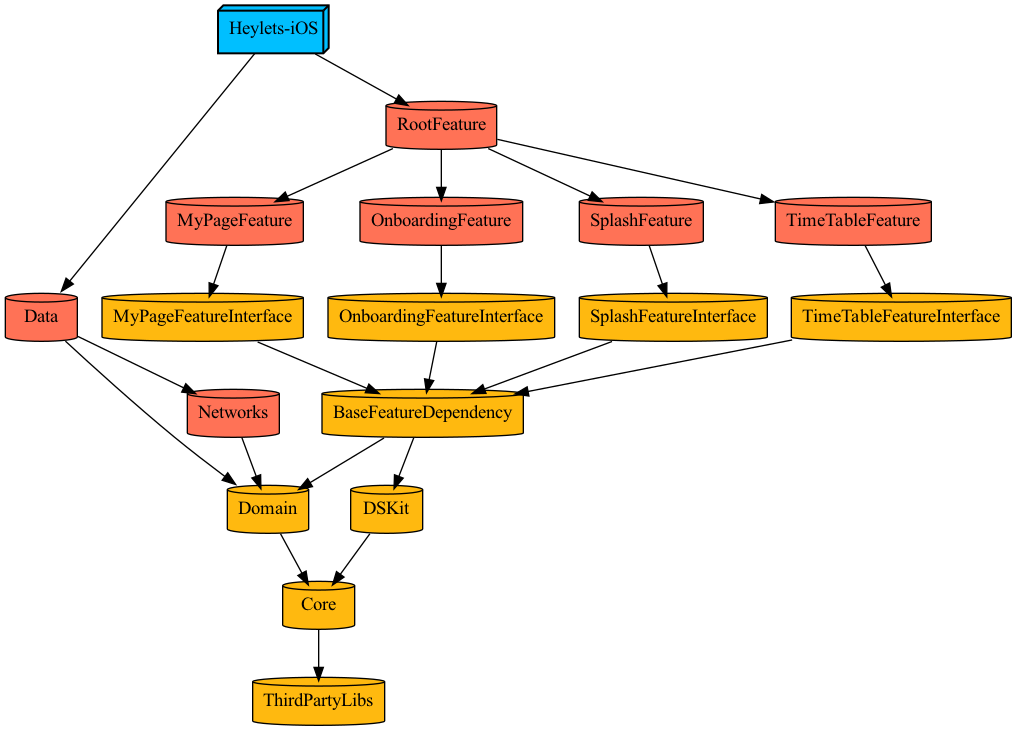
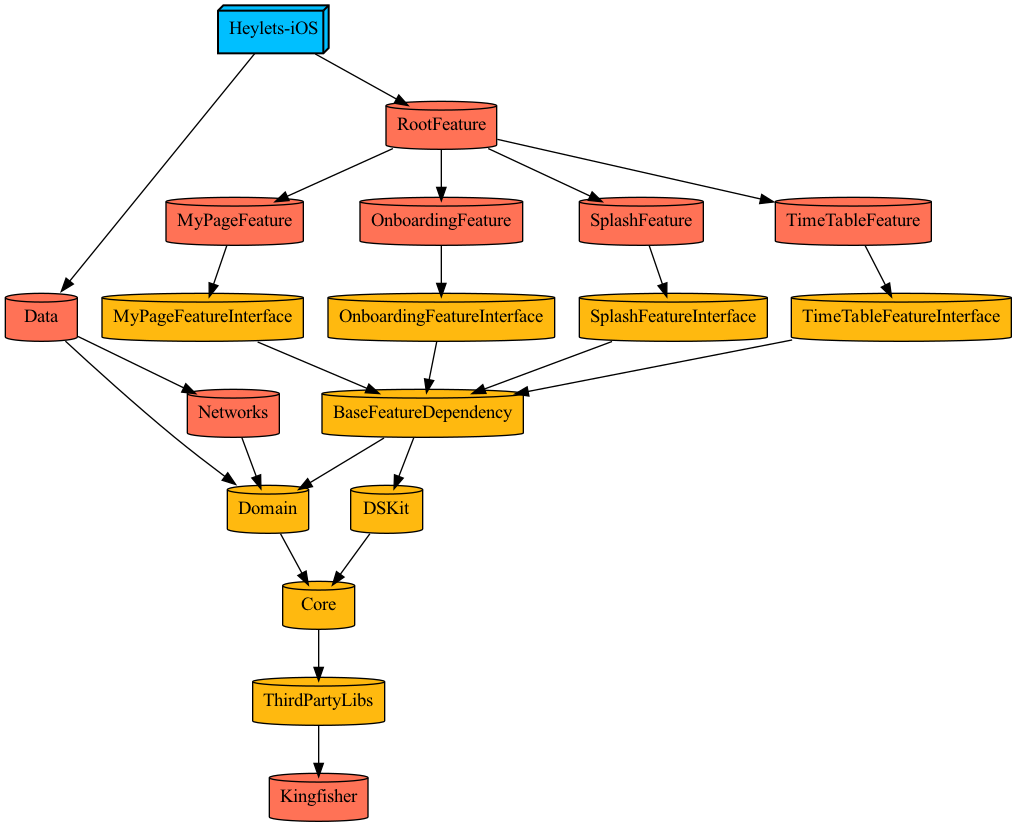
[Feat] kingfisher 추가 #42

diff --git a/Projects/Core/Sources/Extension/Kingfisher+.swift b/Projects/Core/Sources/Extension/Kingfisher+.swift
@@ -1,0 +1,25 @@
+//
+//  Kingfisher+.swift
+//  Core
+//
+//  Created by 류희재 on 1/17/25.
+//  Copyright © 2025 Heylets-iOS. All rights reserved.
+//
+
+//import SwiftUI
+//import Kingfisher
+//
+//extension Image{
+//    public func kfSetImage(url : String?, defaultImage: UIImage? = nil){
+//        guard let url = url else {
+//            self.image = defaultImage
+//            return
+//        }
+//        if let url = URL(string: url) {
+//            kf.indicatorType = .activity
+//            kf.setImage(with: url,
+//                        placeholder: nil,
+//                        options: [.transition(.fade(1.0))], progressBlock: nil)
+//        }
+//    }
+//}

diff --git a/Tuist/Dependencies.swift b/Tuist/Dependencies.swift
@@ -11,9 +11,7 @@ import ProjectDescriptionHelpers
 import ConfigPlugin
 
 let spm = SwiftPackageManagerDependencies([
-//    .remote(url: "https://github.com/airbnb/lottie-ios", requirement: .upToNextMajor(from: "4.4.1")),
-//    .remote(url: "https://github.com/kakao/kakao-ios-sdk.git", requirement: .upToNextMajor(from: "2.0.0")),
-//    .remote(url: "https://github.com/kishikawakatsumi/KeychainAccess", requirement: .upToNextMajor(from: "4.2.2"))
+    .remote(url: "https://github.com/onevcat/Kingfisher.git", requirement: .upToNextMajor(from: "8.1.3"))
     
 ], baseSettings: Settings.settings(
     configurations: XCConfig.configurations

diff --git a/Projects/Features/MyPageFeature/Sources/View/MyPageView.swift b/Projects/Features/MyPageFeature/Sources/View/MyPageView.swift
@@ -10,6 +10,7 @@ import SwiftUI
 
 import DSKit
 import BaseFeatureDependency
+import Kingfisher
 
 public struct MyPageView: View {
     @EnvironmentObject var container: Router
@@ -67,7 +68,7 @@ public struct MyPageView: View {
                 }
                 
                 VStack {
-                    Image(uiImage: .icSchool)
+                    Image(uiImage: viewModel.state.profileInfo.image ?? UIImage().withTintColor(.black))
                         .resizable()
                         .frame(width: 80, height: 80)
                         .background(Color.heyWhite)

diff --git a/Projects/Features/OnboardingFeature/Sources/ViewModel/SignUp/AddProfileViewModel.swift b/Projects/Features/OnboardingFeature/Sources/ViewModel/SignUp/AddProfileViewModel.swift
@@ -46,7 +46,7 @@ public class AddProfileViewModel: ObservableObject {
         case .backButtonDidTap:
             navigationRouter.pop()
         case .nextButtonDidTap:
-            useCase.userInfo.profile.image = profileImage?.jpegData(compressionQuality: 1.0)
+            useCase.userInfo.profile.image = profileImage
             useCase.signUp()
                 .sink(receiveValue: { [weak self] _ in
                     self?.navigationRouter.popToRootView()

diff --git a/Projects/Domain/Sources/Entity/Model/App/Version.swift b/Projects/Domain/Sources/Entity/Model/App/Version.swift
@@ -19,10 +19,10 @@ public struct Version {
     }
 
     public init(_ versionString: String) {
-        let versions = versionString.split(separator: ".").map{ Int($0)! }
-        self.major = versions[0]
-        self.minor = versions[1]
-        self.patch = versions[2]
+        let versions = versionString.split(separator: ".").map{ Int($0) }
+        self.major = versions[0] ?? 0
+        self.minor = versions[1] ?? 0
+        self.patch = 0
     }
 }
 

diff --git a/Projects/Domain/Sources/Entity/Model/User/User.swift b/Projects/Domain/Sources/Entity/Model/User/User.swift
@@ -34,12 +34,12 @@ public struct User: Hashable {
 public struct ProfileInfo: Hashable {
     public var nickName: String
     public var university: String
-    public var image: Data?
+    public var image: UIImage?
     
     public init(
         nickName: String = "",
         university: String = "",
-        image: Data? = nil
+        image: UIImage? = nil
     ) {
         self.nickName = nickName
         self.university = university

diff --git a/Projects/Data/Sources/Mapper/User/UserMapper.swift b/Projects/Data/Sources/Mapper/User/UserMapper.swift
@@ -23,7 +23,7 @@ extension User {
                 sex: gender,
                 birth: birth.toInt()
             ),
-            profileImg: profile.image
+            profileImg: profile.image?.jpegData(compressionQuality: 1.0)
         )
     }
 }

diff --git a/Projects/Modules/ThirdPartyLibs/Project.swift b/Projects/Modules/ThirdPartyLibs/Project.swift
@@ -11,7 +11,10 @@ import DependencyPlugin
 
 let project = Project.makeModule(
     name: "ThirdPartyLibs",
-    targets: [.dynamicFramework]
+    targets: [.dynamicFramework],
+    externalDependencies: [
+        .SPM.Kingfisher
+    ]
 )
 
 

diff --git a/Plugins/DependencyPlugin/ProjectDescriptionHelpers/Dependency+SPM.swift b/Plugins/DependencyPlugin/ProjectDescriptionHelpers/Dependency+SPM.swift
@@ -16,6 +16,5 @@ public extension TargetDependency {
 }
 
 public extension TargetDependency.SPM {
-    
+    static let Kingfisher = TargetDependency.external(name: "Kingfisher")
 }
-
